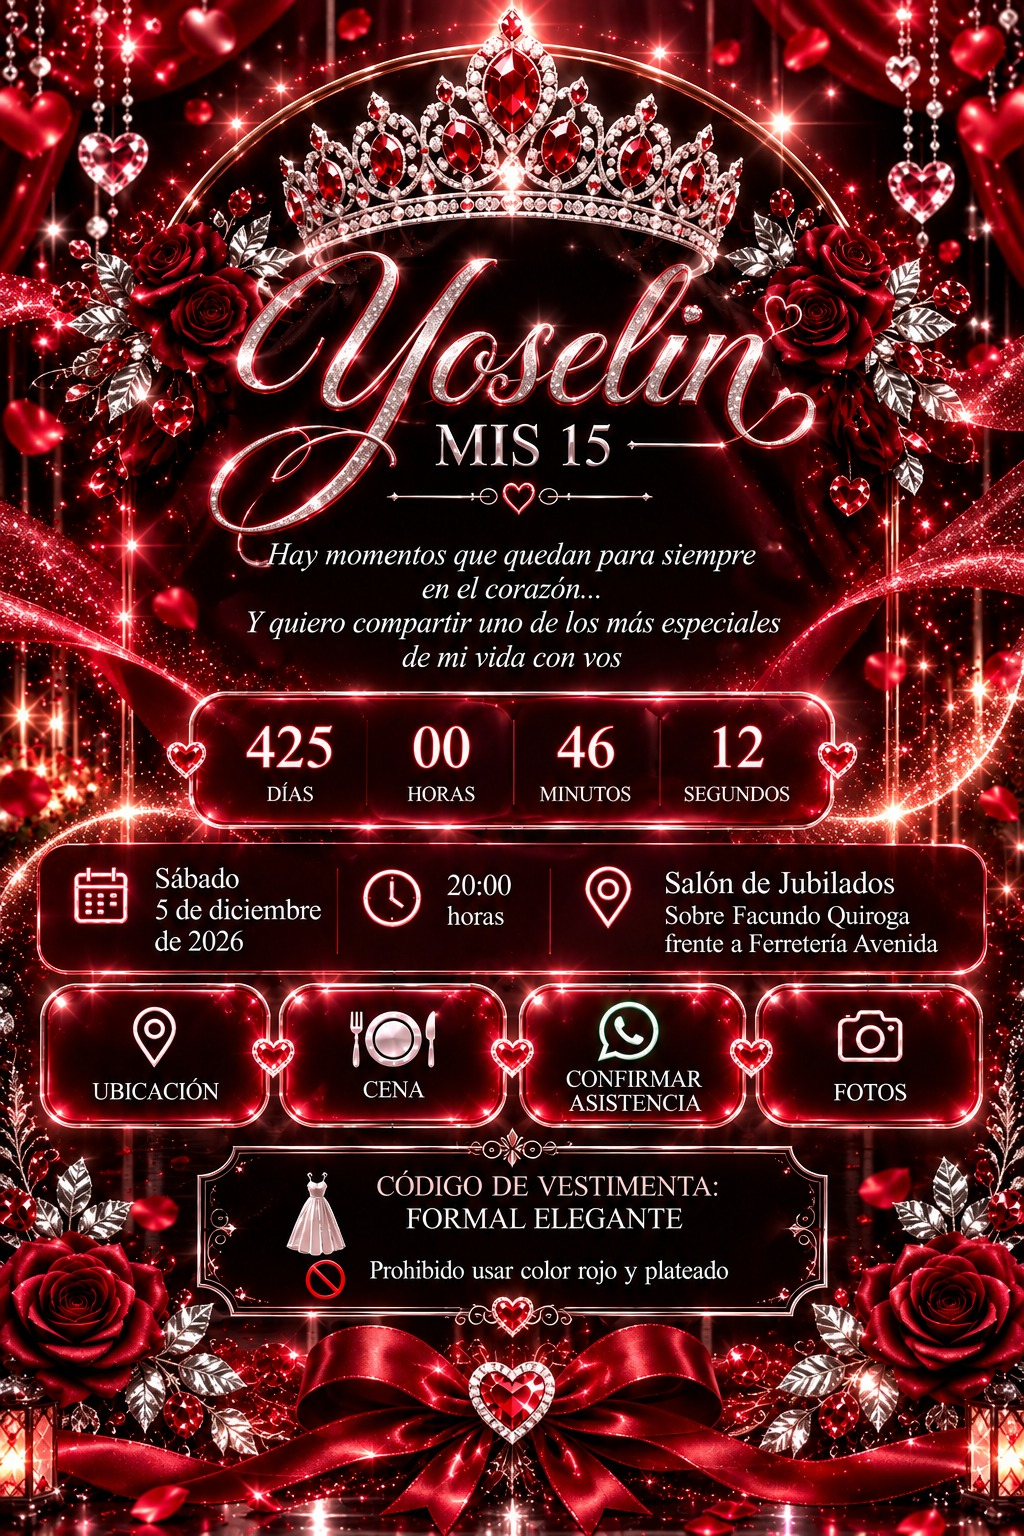
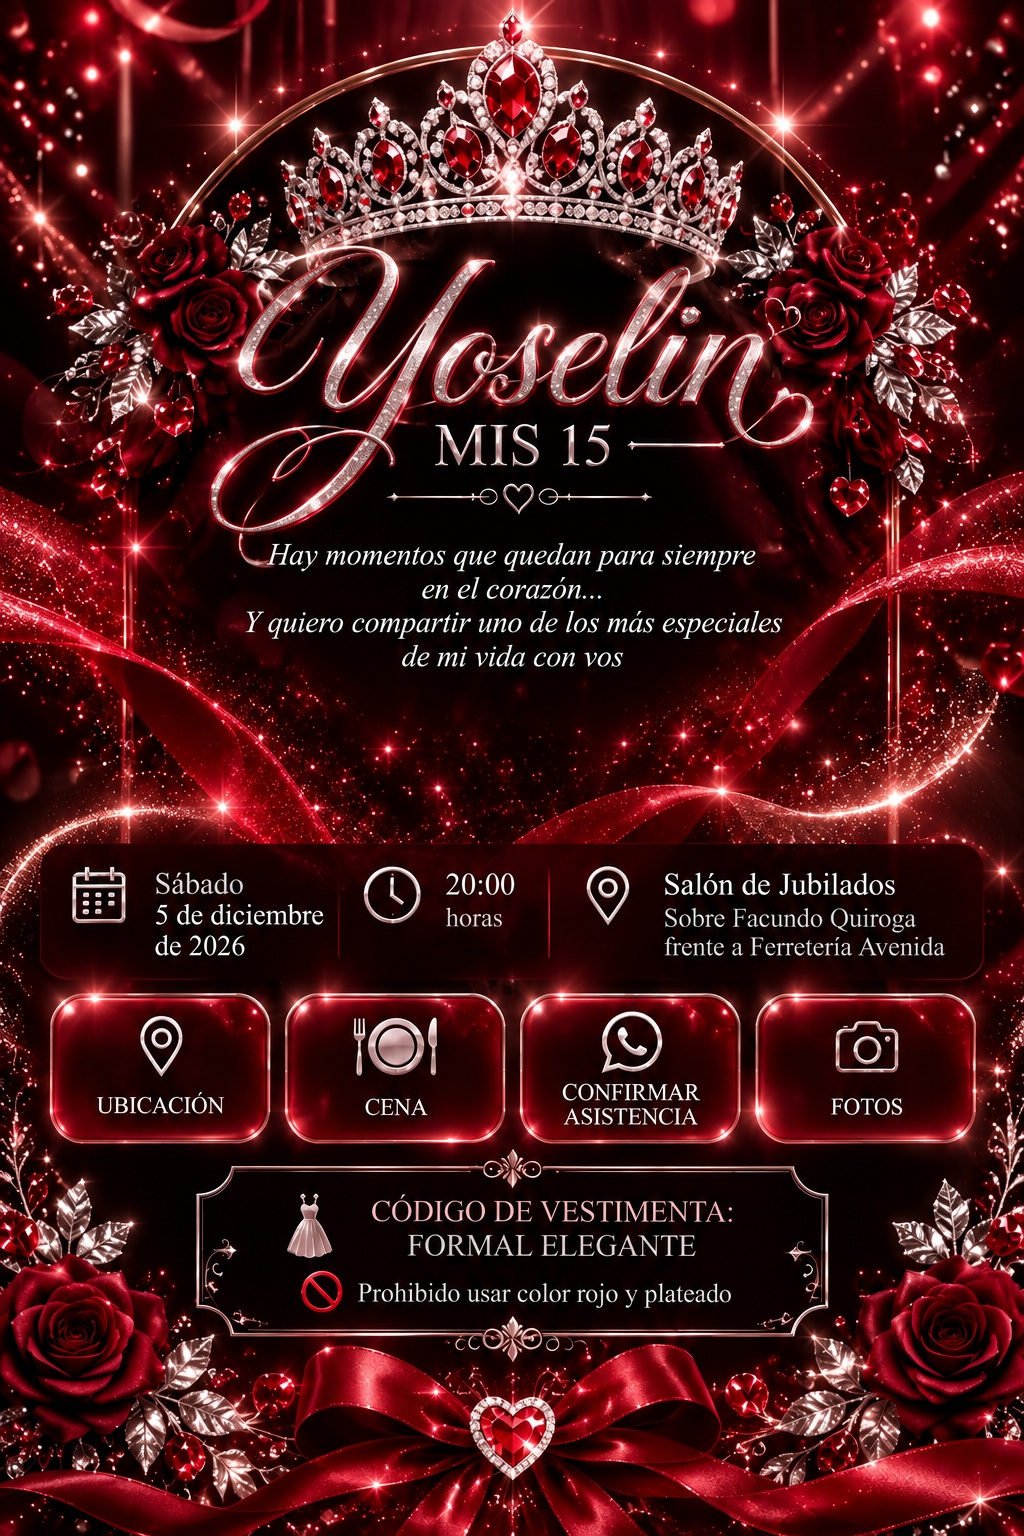
Add files via upload

diff --git a/index.html b/index.html
@@ -14,15 +14,14 @@ body{margin:0;background:#100207;color:#fff;font-family:Georgia,"Times New Roman
 .art{position:relative;width:100%;aspect-ratio:1024/1536;background-image:url("fondo-yoselin.jpg");background-position:center top;background-size:100% 100%;background-repeat:no-repeat}
 .hit{position:absolute;display:block;border:0;background:transparent;cursor:pointer;border-radius:22px;outline-offset:3px}
 .hit:focus-visible{outline:2px solid white}
+#countdown{position:absolute;left:18%;top:45.1%;width:64%;height:7.3%;display:grid;grid-template-columns:repeat(4,1fr);align-items:center;text-align:center;pointer-events:none;text-shadow:0 0 8px #ff174d;background:linear-gradient(180deg,rgba(45,0,12,.72),rgba(10,0,4,.82));border:1px solid rgba(255,190,207,.9);border-radius:18px;box-shadow:0 0 12px #ff174d99,inset 0 0 12px #ff174d55}
+.unit{display:flex;flex-direction:column;align-items:center;justify-content:center;min-width:0}
+.number{font-size:clamp(17px,4.6vw,39px);line-height:1.05;font-variant-numeric:tabular-nums}
+.label{font-size:clamp(7px,1.5vw,13px);margin-top:4px}
 #location{left:4%;top:64.2%;width:23%;height:8.7%}
 #dinner{left:27.5%;top:64.2%;width:23%;height:8.7%}
 #rsvp{left:51%;top:64.2%;width:23.5%;height:8.7%}
 #photos{left:75%;top:64.2%;width:21%;height:8.7%}
-#countdown{position:absolute;left:18%;top:45.1%;width:64%;height:7.3%;display:grid;grid-template-columns:repeat(4,1fr);align-items:center;text-align:center;pointer-events:none;text-shadow:0 0 8px #ff174d}
-.unit{display:flex;flex-direction:column;align-items:center;justify-content:center;min-width:0}
-.number{font-size:clamp(17px,4.6vw,39px);line-height:1.05;font-variant-numeric:tabular-nums}
-.label{font-size:clamp(7px,1.5vw,13px);margin-top:4px}
-#mapHotspot{left:4%;top:55.1%;width:30%;height:7.2%}
 .modal{position:fixed;inset:0;background:#080105ee;z-index:10;display:none;align-items:center;justify-content:center;padding:18px}
 .modal.open{display:flex}
 .box{width:min(560px,100%);max-height:90vh;overflow:auto;background:linear-gradient(145deg,#400012,#0a0205);border:1px solid #ffb5c5;border-radius:18px;padding:16px;text-align:center;box-shadow:0 0 30px #ff174d99}
@@ -35,7 +34,6 @@ body{margin:0;background:#100207;color:#fff;font-family:Georgia,"Times New Roman
 <body>
 <main class="page">
   <section class="art" aria-label="Invitación de quince años de Yoselin">
-    <!-- Los elementos de interacción se colocan encima del diseño de fondo -->
     <div id="countdown" aria-label="Cuenta regresiva">
       <div class="unit"><span class="number" id="days">000</span><span class="label">DÍAS</span></div>
       <div class="unit"><span class="number" id="hours">00</span><span class="label">HORAS</span></div>
